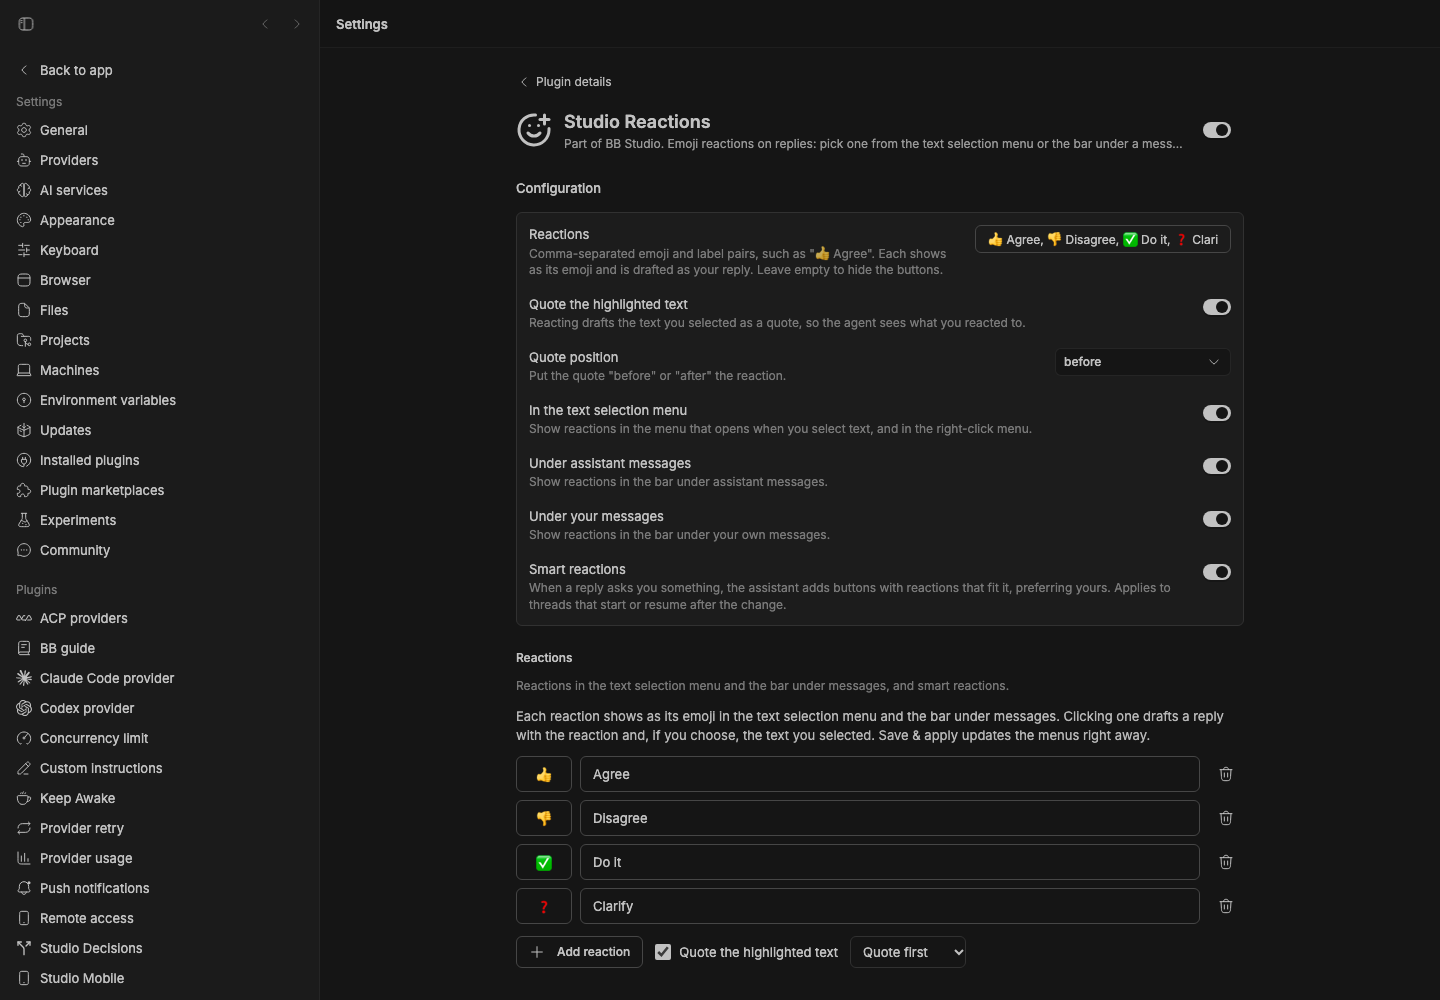
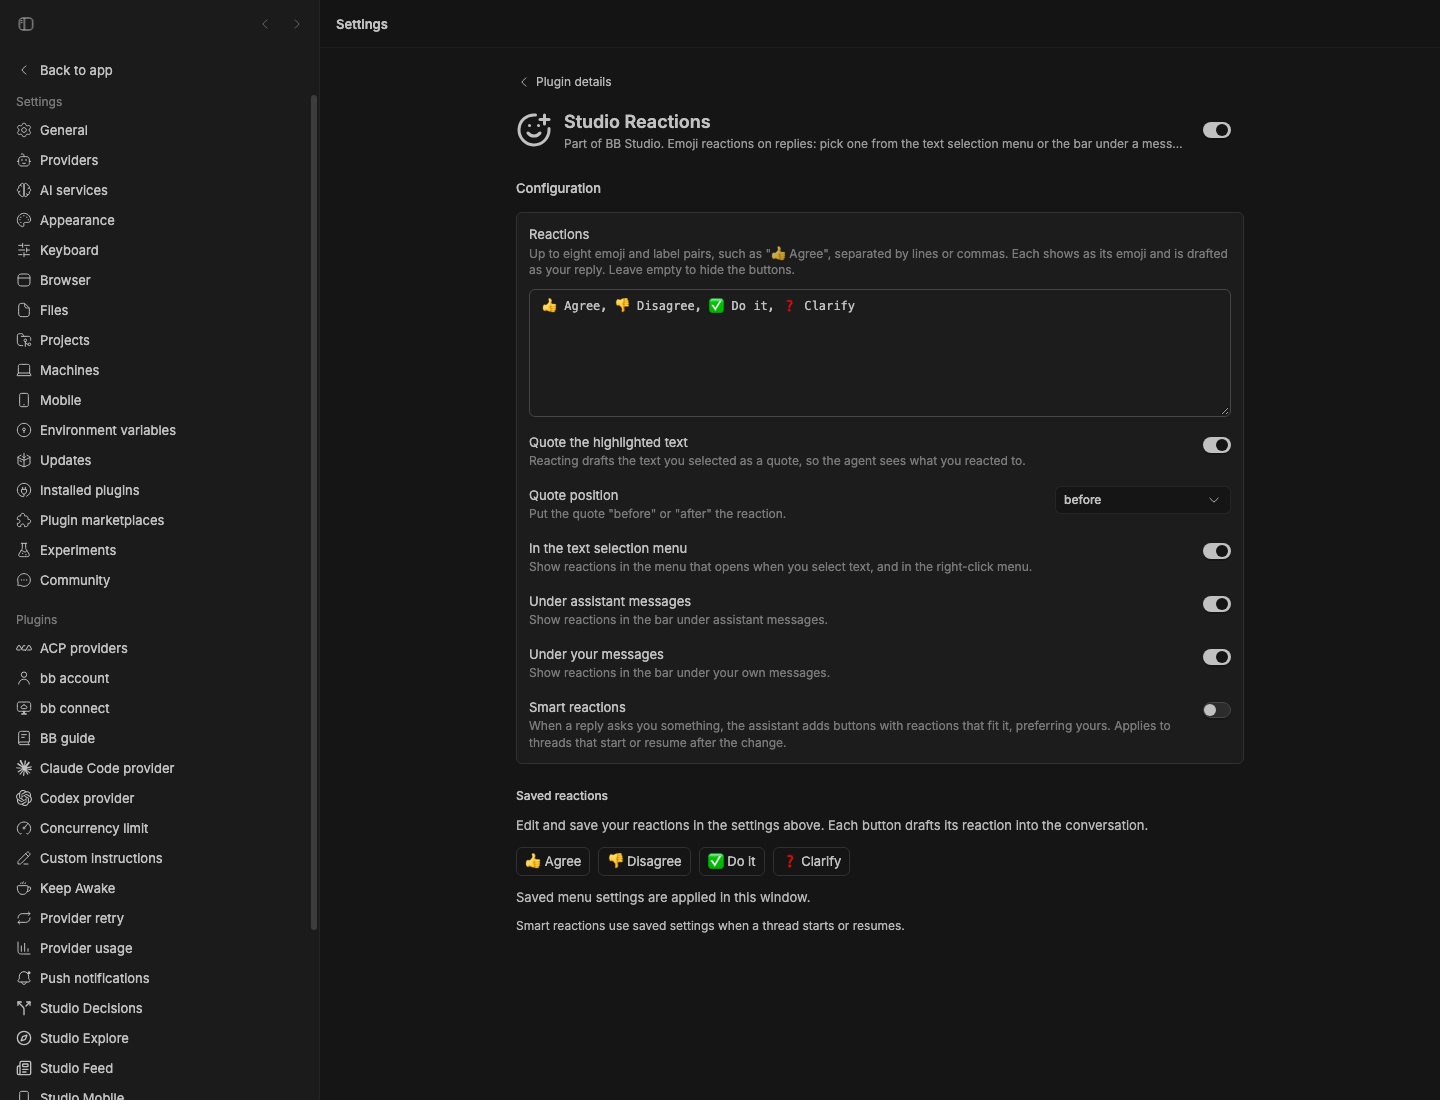
test: verify Reactions and Explore task flows in stable BB

diff --git a/docs/review-evidence/2026-10-02/reactions-explore/README.md b/docs/review-evidence/2026-10-02/reactions-explore/README.md
@@ -1,0 +1,31 @@
+# Reactions and Explore live verification
+
+Captured from isolated stable BB on `127.0.0.1:49486`, with its data in
+`/tmp/bb-studio-goal-staged`. No production app or data was used.
+
+- Reactions checkpoint `38f64b5`: exactly one native settings editor; pending
+  reload notice and applied state; independent user, assistant and selection
+  switches; emoji glyphs in both message bars; no redundant selection icons;
+  disabling the plugin removes its glyphs and icons. All switches were restored.
+- Explore/Tasks/Studio checkpoint `3318221`: Track task opens a real task;
+  three concurrent retries return the same ID; the task retains its source
+  thread and project and inherits the thread's Studio space. Open task reopens
+  that task. Actually disabling Tasks shows a disabled Tasks unavailable action;
+  reenabling it and focusing the window restores Open task.
+
+The JSON files record assertions and fixture IDs. Screenshots show the actual
+rendered application. The Reactions applied-state image is also the package's
+`assets/staged-preview.png`. Fixture tasks, spaces and the source thread were
+removed after verification. Tasks and Reactions were left enabled.
+
+`verifyExploreTask` in `scripts/capture/verify-explore-task.mjs` reproduces the
+Explore checks with the existing capture driver's client. Supply a fresh real
+assistant directive's projectId, threadId, full host messageId, label, outputDir,
+and checkpoint. Set checkUnavailable only in an exclusively owned staged BB.
+The helper validates capture.env, refuses existing linked tasks, captures each
+state, and removes its task and space. The caller owns the thread and browser.
+
+The three Reactions toggle filenames encode user/assistant/selection enabled
+states. JSON counts concern nonhidden buttons; native hover-only action bars may
+be transparent in screenshots. No real agent message was sent by clicking a
+reaction. Right-click context menus were not separately exercised.

diff --git a/packages/bb-studio-reactions/README.md b/packages/bb-studio-reactions/README.md
@@ -65,9 +65,12 @@ than 60 characters, and drops items without both an emoji and a label.
 
 ![Live BB screenshot of Studio Reactions settings](assets/staged-preview.png)
 
-Captured from a staged BB (`node scripts/staged-bb.mjs start`), which turns
-smart reactions on. The settings page shows the default reaction list, the
-location toggles, and the **Smart reactions** toggle turned on.
+Captured from isolated stable BB at checkpoint `38f64b5`. The native settings
+form is the only reaction editor. It shows the default reaction list, all
+three location toggles enabled, and Smart reactions off. The saved preview
+below confirms these menu settings are applied in this window. Live checks
+also verified the pending reload notice, each location toggle independently,
+emoji-only selection entries, and cleanup when the plugin is disabled.
 
 ![Smart reactions under a live assistant reply](assets/smart-reactions.png)
 
@@ -150,7 +153,8 @@ Smart-reaction instructions use saved settings when a thread starts or resumes.
 - The small `src/action-decoration.ts` host adapter identifies actions only by
   this plugin's icon plus a configured reaction title. It swaps the icon for
   an emoji in message bars and removes the redundant icon in selection menus.
-  Role-specific visibility uses explicit role attributes; unknown roles stay
+  Role-specific visibility uses explicit role attributes and stable BB’s
+  message container classes; unknown roles stay
   visible unless both message-bar locations are off. It restores every owned
   icon and visibility change when the plugin generation ends, and never targets
   unrelated buttons just because they share an emoji label.
